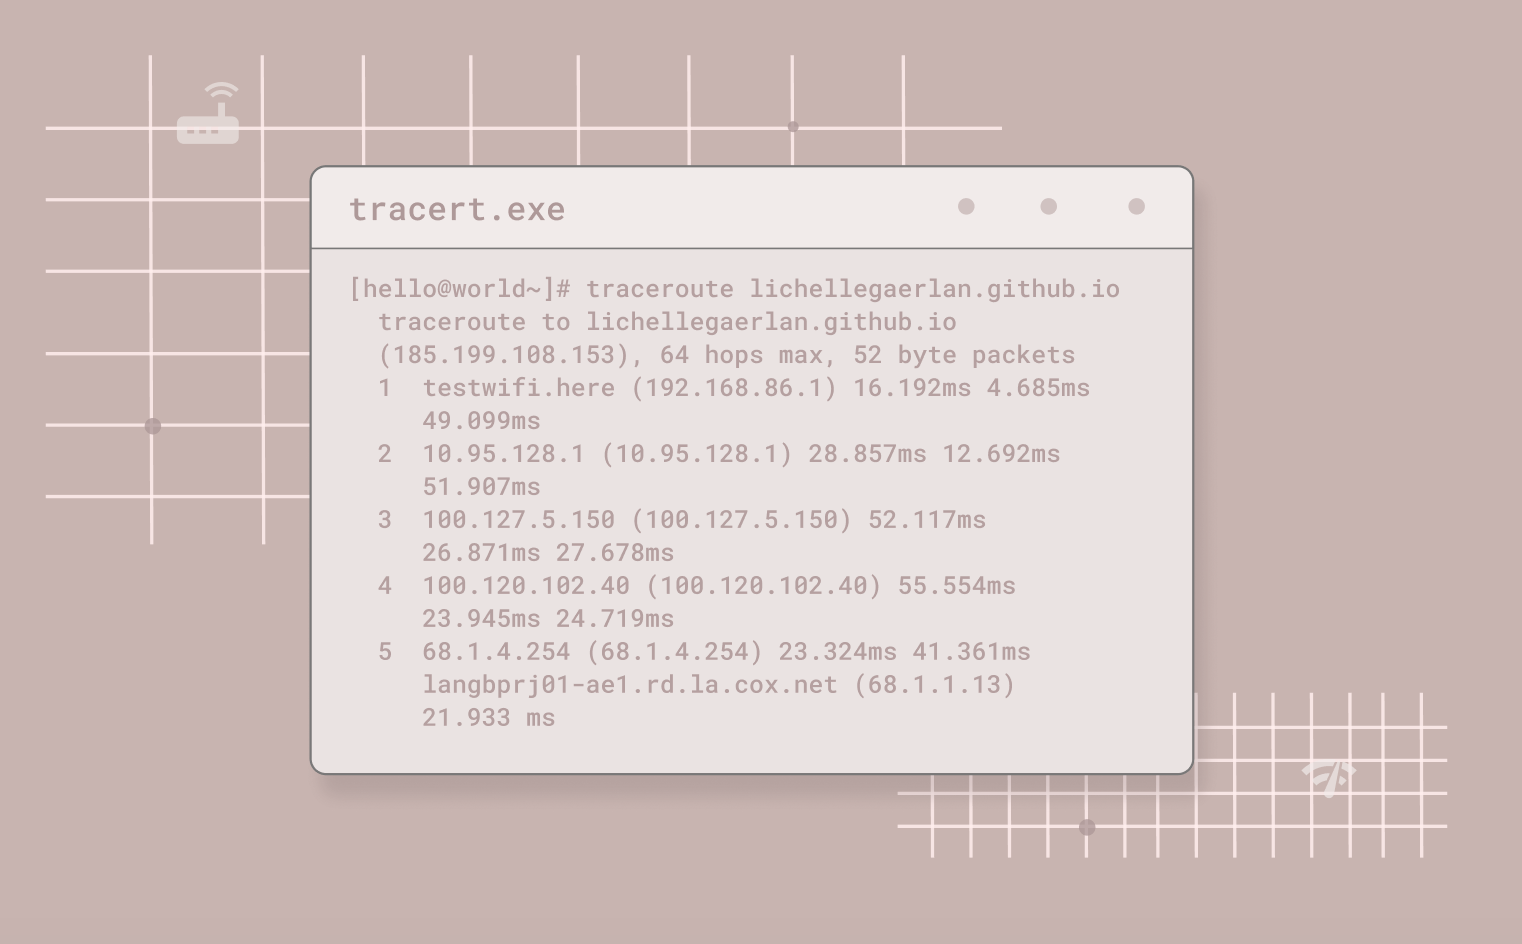
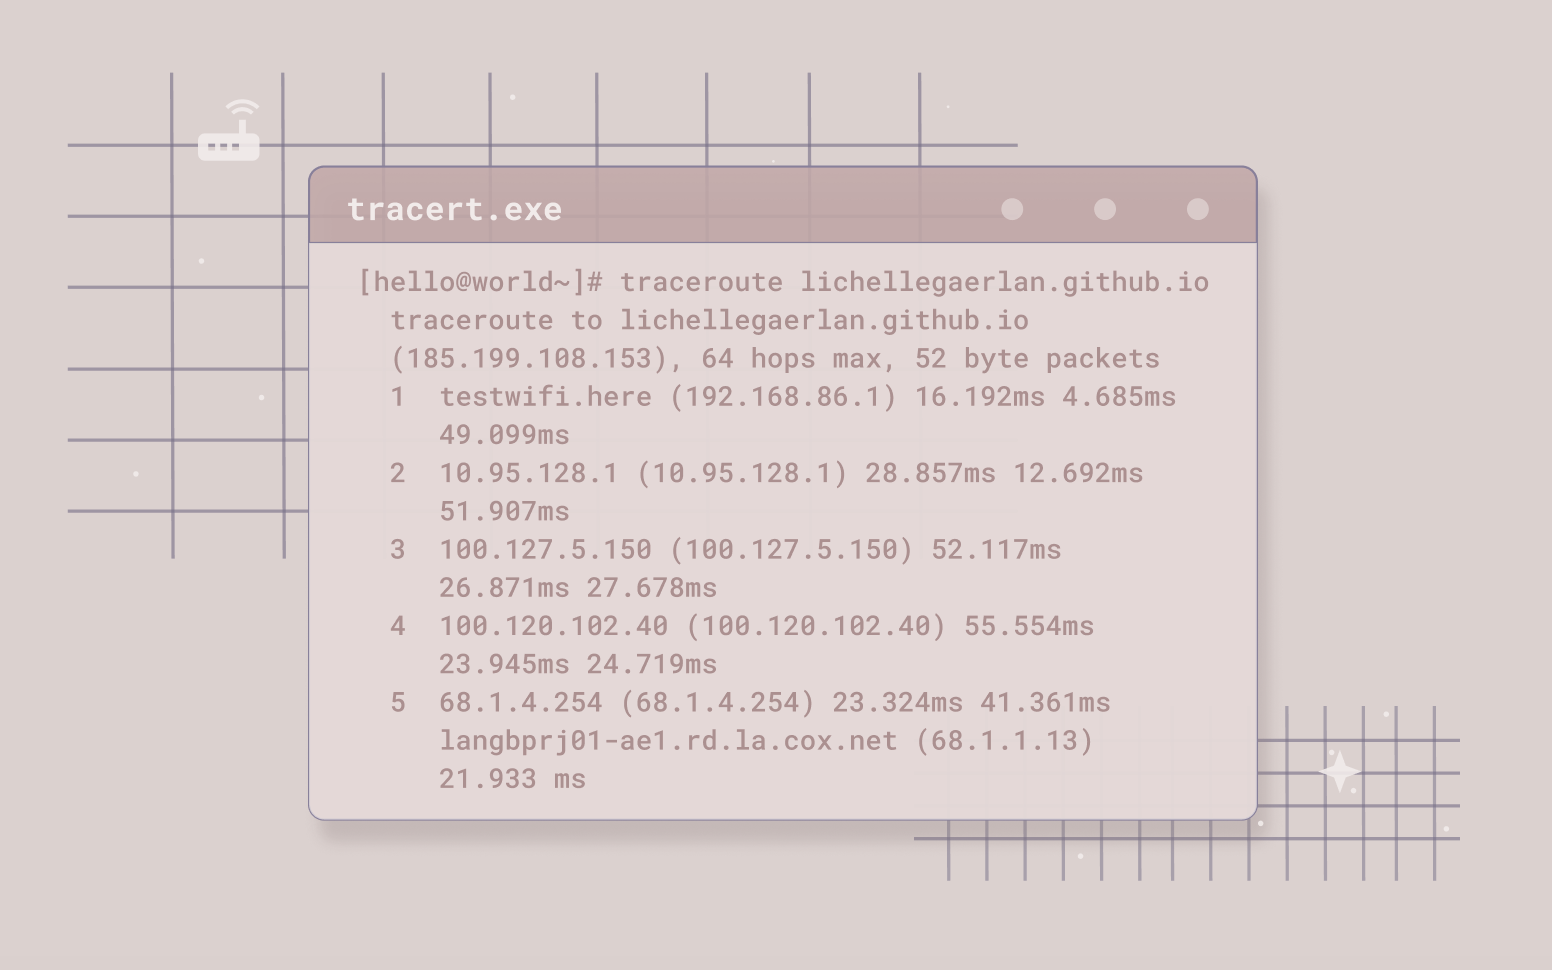
skills descriptions done

diff --git a/src/Components/Skills.js b/src/Components/Skills.js
@@ -1,7 +1,7 @@
 import React from 'react';
 
 import './Skills.css';
-import { Container, Row, Col, Card, CardGroup } from 'react-bootstrap';
+import { Container, Row, Col, Card, CardGroup, Accordion, Button } from 'react-bootstrap';
 
 import Test from './test.jpg';
 import Networks from './networks.png';
@@ -29,31 +29,47 @@ export default props => {
                             <Card className="skills-card">
                                 <Card.Img variant="top" src={Networks} />
                                 <Card.Body>
-                                    <Card.Text className="card-text">
-                                        &ndash;&ndash;<br/>
-                                        Computer Networking
+                                    <Card.Text>
+                                        <h1 className="skills-header">Computer Networking</h1>
+                                        <p className="card-text">
+                                            I am proficient with Cisco IOS, and have working experience
+                                            configuring, installing, and troubleshooting Cisco devices. I also
+                                            have extensive experience with data/fiber cabling, IP address management, 
+                                            and automation scripting.
+                                        </p>
                                     </Card.Text>
                                 </Card.Body>
                             </Card>
+                        {/* </Col> */}
+                        {/* <Col xs={12} sm={12} md={3} lg={3}> */}
+                        <Card className="skills-card">
+                            <Card.Img variant="top" src={UI} />
+                            <Card.Body>
+                                <Card.Text className="card-text">
+                                    <h1 className="skills-header">UI/UX Design</h1>
+                                    <p className="card-text" style={{ fontSize: '56%' }}>
+                                        I believe that well designed software products stem from
+                                        the UX industry. I love designing elegant, engaging, and
+                                        efficient product experiences alongside a beautiful user interface.
+                                        <br/><br/>
+                                        my process > 
+                                    </p>
+                                </Card.Text>
+                            </Card.Body>
+                        </Card>
                         {/* </Col> */}
                         {/* <Col xs={12} sm={12} md={3} lg={3}> */}
                             <Card className="skills-card">
                                 <Card.Img variant="top" src={Web} />
                                 <Card.Body>
                                     <Card.Text className="card-text">
-                                        &ndash;&ndash;<br/>
-                                        Responsive Web Design
-                                    </Card.Text>
-                                </Card.Body>
-                            </Card>
-                        {/* </Col> */}
-                        {/* <Col xs={12} sm={12} md={3} lg={3}> */}
-                            <Card className="skills-card">
-                                <Card.Img variant="top" src={UI} />
-                                <Card.Body>
-                                    <Card.Text className="card-text">
-                                        &ndash;&ndash;<br/>
-                                        UI/UX Design
+                                        <h1 className="skills-header">Responsive Web Design</h1>
+                                        <p className="card-text" style={{ fontSize: '60%' }}>
+                                            Using ReactJS and HTML/CSS, I have found that it is pertinent to implement
+                                            responsive web features that will allow the website to be mobile-friendly, flexible,
+                                            and improve the overall user experience to increase visistor traffic.
+                                            <br/><br/>
+                                        </p>
                                     </Card.Text>
                                 </Card.Body>
                             </Card>
@@ -63,8 +79,11 @@ export default props => {
                                 <Card.Img variant="top" src={Other} />
                                 <Card.Body>
                                     <Card.Text className="card-text">
-                                        &ndash;&ndash;<br/>
-                                        Other
+                                        <h1 className="skills-header">Scripting</h1>
+                                        <p className="card-text" style={{ fontSize: '56%' }}>
+                                            Programming using Python and C++
+                                            <br/><br/>
+                                        </p>
                                     </Card.Text>
                                 </Card.Body>
                             </Card>

diff --git a/src/Components/Landing.js b/src/Components/Landing.js
@@ -22,20 +22,19 @@ export default props => {
                             <Col xs={12} sm={12} md={12} lg={12}>
                                 <div className="hello-world">Hello World! I'm</div>
                                 <div className="about-title">Lichelle Gaerlan</div>
-                                <div className="about-subtitle">Computer Science Student / Network Technician</div>
-                                <hr style={{ backgroundColor: '#9fc2b7' }}/>
+                                <div className="about-subtitle">Computer Science Graduate / Network Technician</div>
+                                <hr style={{ backgroundColor: '#C9CEE9' }}/>
                                 <div className="about-text">
                                     I am a recent graduate from the University of Nevada, Las Vegas (UNLV)
                                     with a Bachelor's in Computer Science. I graduated with a concentration in
-                                    Information Assurance and a minor in Mathematics.
+                                    Information Assurance and a minor in Mathematics. <br/><br/>
                                     During my time at UNLV, I worked as a Network Technician within
                                     UNLV's Network Development and Engineering department, which provided me foundational knowledge
                                     in computer networking concepts and its real-world applications. I am seeking opportunities
                                     in anything related to computer networking, computer security, and front-end design.
                                 </div>
                                 <br/>
-                                <button className="b1">Work Experience ></button>
-                                <button className="b1 v2">Contact ></button>
+                                <button className="b1">See My Work ></button>
                                 <br/>
                             </Col>
                         </Col>

diff --git a/src/Components/Landing.css b/src/Components/Landing.css
@@ -35,7 +35,7 @@
     font-weight: 700;
     font-size: 50%;
     color: #fff;
-    background-color: #b5dbd4;
+    background-color: #C9CEE9;
     opacity: 0.8;
     letter-spacing: 2px;
     text-align: center;
@@ -48,7 +48,7 @@
 .about-title {
     font-family: 'Helvetica';
     /* font-family: 'Playfair Display', serif; */
-    color: #c7dbd5;
+    color: #C9CEE9;
     font-weight: 400;
     font-size: 170%;
     letter-spacing: 5px;
@@ -58,7 +58,7 @@
 .about-subtitle {
     font-family: 'Helvetica';
     font-weight: 300;
-    color: #9fc2b7;
+    color: #C9CEE9;
     font-weight: 500;
     font-size: 50%;
     letter-spacing: 2px;
@@ -88,7 +88,7 @@
     font-family: 'Muli';
     font-weight: 700;
     font-size: 50%;
-    color: #9fc2b7;
+    color: #a0a4ba;
     background-color: #fff;
     text-align: center;
     text-transform: uppercase;

diff --git a/src/Components/Portfolio.js b/src/Components/Portfolio.js
@@ -1,9 +1,21 @@
 import React from 'react';
 
 import './WorkExperience.css';
+import { Container, Row, Col } from 'react-bootstrap';
 
 export default props => {
     return(
-        <h1>hi</h1>
+        <a name="portfolio">
+            <div className="portfolio">
+                <Container>
+                    <Row>
+                        <Col xs={12} sm={12} md={12} lg={12}>
+                            {/* <h1>Portfolio</h1>
+                            <h3>side projects and experiments</h3> */}
+                        </Col>
+                    </Row>
+                </Container>
+            </div>
+        </a>
     );
 }

diff --git a/public/index.html b/public/index.html
@@ -25,7 +25,7 @@
       Learn how to configure a non-root public URL by running `npm run build`.
     -->
     <title>Lichelle Gaerlan</title>
-    <link href="https://fonts.googleapis.com/css2?family=Muli:wght@200&family=Roboto+Mono&family=Roboto:wght@100&family=Playfair+Display&display=swap" rel="stylesheet">
+    <link href="https://fonts.googleapis.com/css2?family=Muli:wght@200&family=Roboto+Mono&family=Roboto:wght@100&family=Amiri&display=swap" rel="stylesheet">
   </head>
   <body>
     <noscript>You need to enable JavaScript to run this app.</noscript>

diff --git a/src/App.js b/src/App.js
@@ -10,13 +10,14 @@ import WorkExperience from './Components/WorkExperience';
 import Portfolio from './Components/Portfolio';
 
 function App() {
+  const target = React.createRef();
   return (
     <div className="App">
       <Navigation />
       {/* <Terminal /> */}
       <Landing />
       <Skills />
-      <WorkExperience />
+      {/* <WorkExperience /> */}
       <Portfolio />
     </div>
   );

diff --git a/src/Components/Skills.css b/src/Components/Skills.css
@@ -49,12 +49,22 @@
     font-size: 50%;
 }
 
+.skills-header {
+    font-family: "Helvetica";
+    font-weight: 100;
+    font-size: 100%;
+    color: #CEB9B5;
+    letter-spacing: 1px;
+}
+
 .card-text {
     font-family: "Helvetica";
     font-weight: 100;
-    font-size: 50%;
+    font-size: 60%;
     letter-spacing: 0.5px;
 }
+
+
 
 
 
